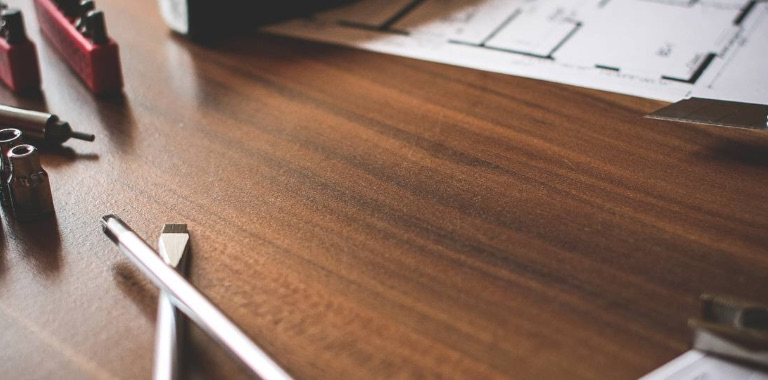
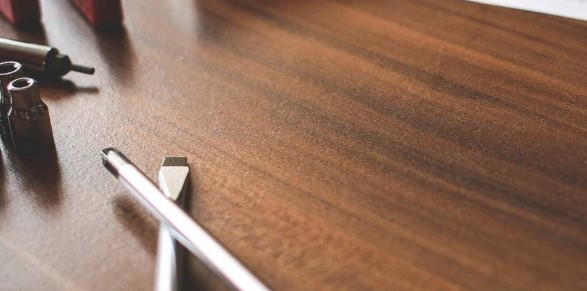
Deixando Responsivo
CSS - Responsivo

diff --git a/css/responsive.css b/css/responsive.css
@@ -1,0 +1,165 @@
+/*Estilo para tablets*/
+@media only screen and (min-width: 788px) and (max-width: 979px){
+
+	/*Qualidade Home*/
+	.qualidade:after{
+		right: 66px;
+	}
+	
+	.qualidade_lista li{
+		padding: 0 10px;
+	}
+
+	/*Footer*/
+	.footer_redes ul li a{
+		padding: 6px;
+	}
+
+	.footer_redes ul li a img{
+		width: 26px;
+		height: 26px;
+	}
+
+	/*Produtos*/
+	.produto_item h2{
+		top: -150px;
+		margin-bottom: -56px;
+	}
+
+	.produto_icone{
+		padding: 41px 0;
+	}
+
+	.produto_info p{
+		font-size: 14px;
+		line-height: 20px;
+		height: 122px;
+		padding: 20px 30px;
+	}
+
+	.produto_info ul li{
+		width: 181px;
+		height: 49px;
+	}
+}
+/*___________________________________________________________________________________________________________*/
+
+/*Estilo para smartphones*/
+@media only screen and (max-width: 787px){
+
+	/*Header*/
+	.header{
+		position: relative;
+		padding-bottom: 0;
+	}
+
+	.header img{
+		margin: 0 auto 10px auto;
+	}
+
+	.header_menu{
+		text-align: center;
+	}
+
+	.header_menu ul li{
+		margin: 5px;
+	}
+
+	.header_menu ul li a{
+		color: #000;
+		border: 4.5px solid #000;
+		width: 136px;
+		display: block;
+		float: left;
+	}
+
+	.header_menu ul li a:hover{
+		border-color: #fff;
+	}
+
+	.header_menu ul li a.menu_ativo{
+		border-color: #fff;
+	}
+
+	/*Introdução*/
+	.introducao{
+		margin-top: 0;
+		padding-top: 40px;
+		background: url("../img/bg-mobile.jpg") no-repeat center;
+    	background-size: cover;
+	}
+
+	.introducao h1{
+		font-size: 36px;
+	}
+
+	/*Introdução interna*/
+	.introducao-interna{
+		margin-top: 0px; 
+	}
+ 
+	/*Call*/
+	.call{
+		padding-top: 8px;
+	}
+
+	/*Qualidade*/
+	.qualidade:after{
+		display: none;
+	}
+
+	/*Página Sobre*/
+	.missao_sobre p{
+		font-size: 14px;
+		line-height: 20px;
+		padding-right: 0px;
+	}
+
+	.missao_sobre ul li{
+		font-size: 14px;
+		line-height: 25px;
+		padding-right: 0px;
+	}
+
+	/*Produtos*/
+	.produto_item h2{
+		top: -100px;
+		margin-bottom: -68px;
+	}
+
+	.produto_icone{
+		padding: 41px 0;
+	}
+
+	.produto_info p{
+		font-size: 14px;
+		line-height: 20px;
+		height: auto;
+		padding: 20px 30px;
+	}
+
+	.produto_info ul li{
+		width: 149px;
+		height: 49px;
+		font-size: 14px;
+		line-height: 20px;
+		padding-top: 14px;
+	}
+
+	.form{
+		padding-right: 0px;
+	}
+
+	.orcamento_dados ul{
+		padding-right: 0px;
+	}
+
+	/*Contato*/
+	.contato_form{
+		padding-right: 0px;
+		margin-bottom: 40px;
+	}
+}
+/*___________________________________________________________________________________________________________*/
+
+

diff --git a/css/grid.css b/css/grid.css
@@ -43,3 +43,40 @@
 .grid-15 	{width: 880px;}
 .grid-16 	{width: 940px;}
 .grid-1-3	{width: 300px;}
+
+@media only screen and (min-width: 788px) and (max-width: 979px){
+	.container{
+		width: 768px;
+	}
+
+	.grid-1 	{width: 28px;}
+	.grid-2 	{width: 76px;}
+	.grid-3 	{width: 124px;}
+	.grid-4 	{width: 172px;}
+	.grid-5 	{width: 220px;}
+	.grid-6 	{width: 268px;}
+	.grid-7 	{width: 316px;}
+	.grid-8 	{width: 364px;}
+	.grid-9 	{width: 412px;}
+	.grid-10 	{width: 460px;}
+	.grid-11 	{width: 508px;}
+	.grid-12 	{width: 556px;}
+	.grid-13 	{width: 604px;}
+	.grid-14 	{width: 652px;}
+	.grid-15 	{width: 700px;}
+	.grid-16 	{width: 748px;}
+	.grid-1-3	{width: 236px;}
+}
+
+@media only screen and (max-width: 787px){
+	.container{
+		width: 300px;
+	}
+
+	.grid-1, .grid-2, .grid-3, .grid-4, .grid-5, .grid-6, .grid-7, .grid-8, .grid-9, .grid-10, .grid-11, .grid-12, .grid-13, .grid-14, .grid-15, .grid-16, .grid-1-3 {
+		width: 300px;
+		margin: 0 0 20px 0;
+		float: none;
+	}
+
+}

diff --git a/portfolio.html b/portfolio.html
@@ -8,6 +8,7 @@
 	<link rel="stylesheet" href="css/grid.css">
 	<link rel="stylesheet" href="css/style.css">
 	<link rel="stylesheet" href="css/portfolio.css">
+	<link rel="stylesheet" href="css/responsive.css">
 	<title>Bikcraft - Portfolio</title>
 </head>
 <body>

diff --git a/produtos.html b/produtos.html
@@ -8,6 +8,7 @@
 	<link rel="stylesheet" href="css/grid.css">
 	<link rel="stylesheet" href="css/style.css">
 	<link rel="stylesheet" href="css/produtos.css">
+	<link rel="stylesheet" href="css/responsive.css">
 	<title>Bikcraft - Produtos</title>
 </head>
 <body>

diff --git a/contato.html b/contato.html
@@ -8,6 +8,7 @@
 	<link rel="stylesheet" href="css/grid.css">
 	<link rel="stylesheet" href="css/style.css">
 	<link rel="stylesheet" href="css/contato.css">
+	<link rel="stylesheet" href="css/responsive.css">
 	<title>Bikcraft - Contato</title>
 </head>
 <body>

diff --git a/sobre.html b/sobre.html
@@ -8,6 +8,7 @@
 	<link rel="stylesheet" href="css/grid.css">
 	<link rel="stylesheet" href="css/style.css">
 	<link rel="stylesheet" href="css/sobre.css">
+	<link rel="stylesheet" href="css/responsive.css">
 	<title>Bikcraft - Sobre</title>
 </head>
 <body>

diff --git a/index.html b/index.html
@@ -7,6 +7,7 @@
 	<link rel="stylesheet" href="css/reset.css">
 	<link rel="stylesheet" href="css/grid.css">
 	<link rel="stylesheet" href="css/style.css">
+	<link rel="stylesheet" href="css/responsive.css">
 	<title>Bikcraft</title>
 </head>
 <body>

diff --git a/css/style.css b/css/style.css
@@ -12,6 +12,7 @@ p{
 
 img{
     display: block;
+    max-width: 100%;
 }
 
 .btn{
